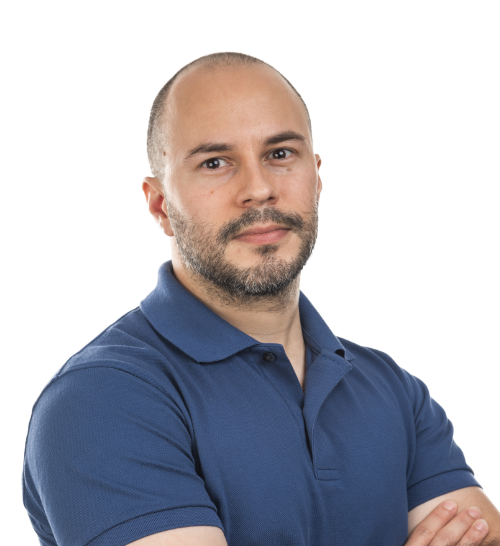
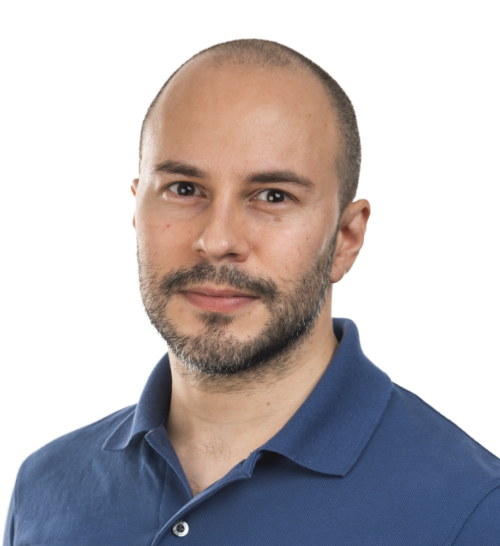
update photos

diff --git a/src/ui/components/About.jsx b/src/ui/components/About.jsx
@@ -2,7 +2,7 @@ import React from "react";
 import useTranslations from "../../hooks/useTranslations";
 import Brick from "../components/Brick";
 import sara from "../../assets/images/sara.png";
-import ignacio from "../../assets/images/ignacio.png";
+import ignacio from "../../assets/images/ignacio1.png";
 import juanlu from "../../assets/images/juanlu.png";
 import antonio from "../../assets/images/antonio2.png";
 // import pattern from "../../assets/images/pattern2.png";
